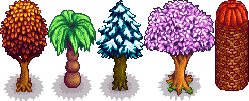
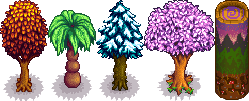
SeasonMode

Changed region(s): [[0.8434, 0.0, 1.0, 1.0]]

diff --git a/src/components/Season.js b/src/components/Season.js
@@ -1,0 +1,89 @@
+import React, { Component } from 'react'
+import { connect } from 'react-redux';
+
+import getFloatText from '../getFloatText';
+
+import '../css/room.css';
+import '../css/season.css';
+import '../css/seasonIcons.css';
+
+import themes from '../themes.json';
+
+export class Season extends Component {
+    render() {
+        let palette = themes.themes[this.props.themeId];
+
+        const { isComplete, itemCount, completedCount } = this.props;
+        const { name } = this.props.season;
+
+
+        let progressPercentage = Math.ceil(completedCount / itemCount * 100);
+
+
+        let completedClass = '';
+        let textClass = '';
+        let textString = '';
+        if (isComplete) {
+            completedClass = 'animated shake';
+            textClass = 'animate';
+            textString = getFloatText();
+        }
+
+
+        return (
+            <div className="room-item season-mode material" style={{ backgroundColor: palette.surface, color: palette.onSurface }}>
+                <div className={`season-icon bg-${name}`}></div>
+                <div className="room-progress">
+                    <div className="progress-text">
+                        <p className="room-name">{name} season</p>
+                        <span className="room-count">{completedCount}/{itemCount}</span>
+                        <span className={`textFloat ${textClass}`} style={{ color: palette.onSurface }}>{textString}</span>
+                    </div>
+                    <div className={`progress-bar material ${completedClass}`} style={{ backgroundColor: palette.primaryVariant }}>
+                        <div className="cursor" style={{ width: `${progressPercentage}%`, backgroundColor: palette.primary }}></div>
+                    </div>
+                </div>
+            </div>
+        )
+    }
+}
+
+const mapStateToProps = (state, ownProps) => {
+    const { items } = ownProps.season;
+
+    let completedItems = 0;
+    let totalItems = 0;
+
+    for (const skill of Object.keys(items)) {
+
+        items[skill].forEach(element => {
+            
+            totalItems++;
+
+            if(state.itemReducer[element.id]) {
+                completedItems++;
+            }            
+        });
+
+    }
+
+    return {
+        isComplete: (completedItems == totalItems),
+        itemCount: totalItems,
+        completedCount: completedItems,
+        themeId: state.themeReducer
+    };
+};
+
+function mapDispatchToProps(dispatch) {
+    return {
+        /* toggleAll: (options) => {
+            dispatch({
+                type: "TOGGLE_ALL",
+                payload: options
+            });
+        } */
+    };
+};
+
+export default connect(mapStateToProps, mapDispatchToProps)(Season);

diff --git a/src/Main.js b/src/Main.js
@@ -2,65 +2,37 @@ import React, { Component } from 'react'
 import { connect } from "react-redux";
 
 import Header from './components/Header';
-import Carousel from './components/Carousel';
-import Room from './components/Room';
-import Bundle from './components/Bundle';
+import RoomMode from './components/RoomMode';
+import SeasonMode from './components/SeasonMode';
+
 import ItemModal from './components/ItemModal';
 
 import './css/main.css';
 import './css/animations.css';
 
 import themes from './themes.json';
-import roomsData from './rooms.json';
 
 export class Main extends Component {
-    constructor(props) {
-        super(props);
-
-        this.state = {
-            currentRoom: 0
-        }
-    }
-
-    changeRoom = (newIndex) => {
-        this.setState({ currentRoom: newIndex });
-    }
-
     render() {
         let palette = themes.themes[this.props.themeId];
 
-        const { rooms } = roomsData;
+        const { mode } = this.props;
 
-        let roomsElement;
-        if (this.props.sortBy === "rooms") {
-            roomsElement = rooms.map((room, index) =>
-                <Room room={room} key={index} />
-            )
+        let modeElement;
+        if(mode === "rooms") {
+            modeElement = <RoomMode />
         }
 
-        let bundlesElement;
-        bundlesElement = rooms[this.state.currentRoom].bundles.map((bundle, index) =>
-            <Bundle bundle={bundle} key={index} />
-        )
+        if(true) {
+            modeElement = <SeasonMode />
+        }
 
         return (
             <div className="main" style={{ backgroundColor: palette.background, color: palette.onSurface, fill: palette.onSurface }}>
                 <Header />
 
                 <div className="body-wrapper">
-                    <div className="carousel-container rooms-carousel">
-                        <Carousel updateState={this.changeRoom}>
-                            {roomsElement}
-                        </Carousel>
-                    </div>
-
-                    <ItemModal />
-
-                    <div className="carousel-container bundles-carousel">
-                        <Carousel currentRoom={this.state.currentRoom}>
-                            {bundlesElement}
-                        </Carousel>
-                    </div>
+                    {modeElement}
                 </div>
             </div>
         )
@@ -69,7 +41,7 @@ export class Main extends Component {
 
 const mapStateToProps = (state) => {
     return {
-        sortBy: state.wrapperReducer.sortBy,
+        mode: state.wrapperReducer.sortBy,
         themeId: state.themeReducer
     };
 };

diff --git a/src/components/RoomMode.js b/src/components/RoomMode.js
@@ -1,0 +1,54 @@
+import React, { Component } from 'react'
+
+import Carousel from './Carousel';
+import Room from './Room';
+import Bundle from './Bundle';
+
+import roomsData from '../rooms.json';
+
+export class RoomMode extends Component {
+    constructor(props) {
+        super(props);
+
+        this.state = {
+            currentRoom: 0
+        }
+    }
+
+    changeRoom = (newIndex) => {
+        this.setState({ currentRoom: newIndex });        
+    }
+
+
+    render() {
+        const { rooms } = roomsData;
+
+        let roomsElement =
+            rooms.map((room, index) =>
+                <Room room={room} key={index} />
+            )
+
+        let bundlesElement;
+        bundlesElement = rooms[this.state.currentRoom].bundles.map((bundle, index) =>
+            <Bundle bundle={bundle} key={index} />
+        )
+
+        return (
+            <div>
+                <div className="carousel-container rooms-carousel">
+                    <Carousel updateState={this.changeRoom}>
+                        {roomsElement}
+                    </Carousel>
+                </div>
+
+                <div className="carousel-container bundles-carousel">
+                    <Carousel currentRoom={this.state.currentRoom}>
+                        {bundlesElement}
+                    </Carousel>
+                </div>
+            </div>
+        )
+    }
+}
+
+export default RoomMode

diff --git a/src/components/SeasonMode.js b/src/components/SeasonMode.js
@@ -1,0 +1,45 @@
+import React, { Component } from 'react'
+
+import Carousel from './Carousel';
+import Season from './Season';
+import Bundle from './Bundle';
+
+import seasonsData from '../seasons.json';
+
+export class SeasonMode extends Component {
+    constructor(props) {
+        super(props);
+
+        this.state = {
+            currentSeason: 0
+        }
+    }
+
+    changeSeason = (newIndex) => {
+        this.setState({ currentSeason: newIndex });
+    }
+
+
+    render() {
+        const { seasons } = seasonsData;
+
+        let seasonsElement =
+            seasons.map((season, index) =>
+                <Season season={season} key={index} />
+            );
+        
+        
+        
+        return (
+            <div>
+                <div className="carousel-container rooms-carousel">
+                    <Carousel updateState={this.changeSeason}>
+                        {seasonsElement}
+                    </Carousel>
+                </div>
+            </div>
+        )
+    }
+}
+
+export default SeasonMode

diff --git a/src/css/seasonIcons.css b/src/css/seasonIcons.css
@@ -1,0 +1,24 @@
+.bg-Fall {
+    width: 48px; height: 101px;
+    background: url('../assets/seasons.png') -0 -0;
+}
+
+.bg-Spring {
+    width: 71px; height: 101px;
+    background: url('../assets/seasons.png') -144px -0;
+}
+
+.bg-Summer {
+    width: 48px; height: 101px;
+    background: url('../assets/seasons.png') -48px -0;
+}
+
+.bg-Winter {
+    width: 48px; height: 101px;
+    background: url('../assets/seasons.png') -96px -0;
+}
+
+.bg-Any {
+    width: 34px; height: 101px;
+    background: url('../assets/seasons.png') -215px -0;
+}

diff --git a/src/css/season.css b/src/css/season.css
@@ -1,0 +1,14 @@
+.season-mode {
+    display: flex;
+}
+
+.season-mode .season-icon {
+    position: relative;
+    top: -50px;
+    margin-bottom: -60px;
+}
+
+.season-mode .room-progress {
+    margin-left: 16px;
+    flex-grow: 1;
+}
